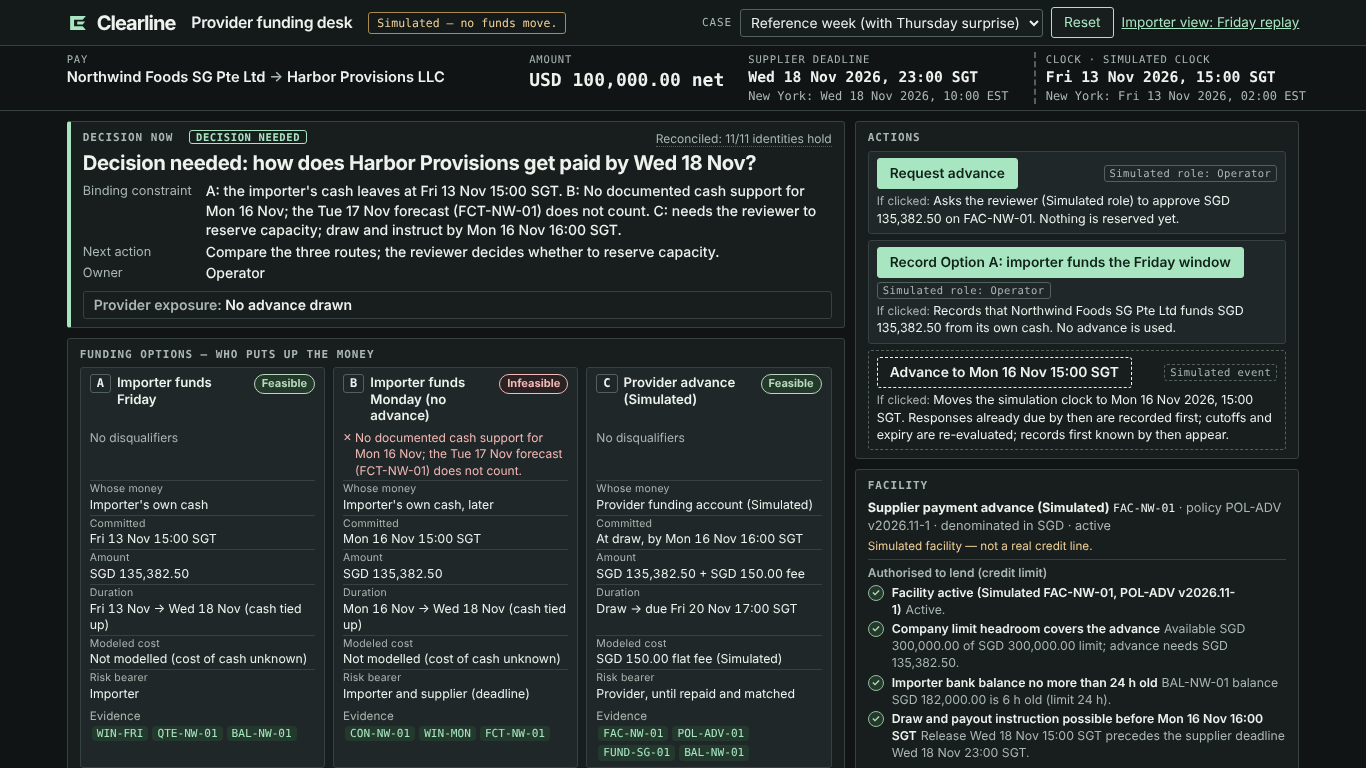
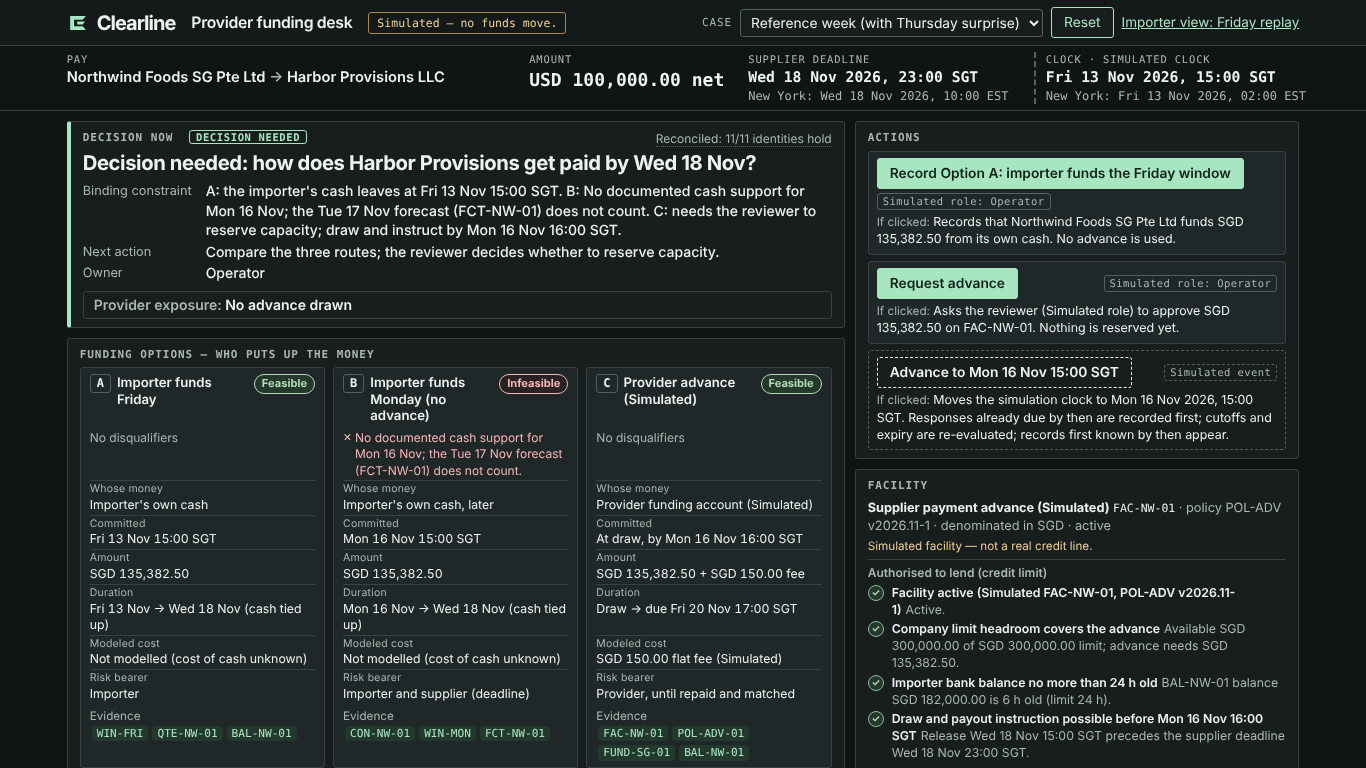
Test results and release log for build 5e2df82 (deployed as clearline-funding-desk@5c61373); challenger final-round regression tests (208 tests)
Claude-Session: https://claude.ai/code/session_015s4Kk7vKgcSQ7csnYmEH5j

Changed region(s): [[0.6149, 0.1875, 0.9224, 0.4375]]

diff --git a/funding-replay/tests/test_challenger.py b/funding-replay/tests/test_challenger.py
@@ -763,5 +763,44 @@ class Resisted2(unittest.TestCase):
             self.assertEqual(v["options"][2]["status"], "infeasible")
 
 
+class Resisted3OptionB(unittest.TestCase):
+    """Round 3 (5e2df82): the new Record Option B path."""
+
+    def test_R21_option_b_path_never_double_funds_double_instructs_or_closes_uncredited(self):
+        def b_ok(r):
+            r["evidence"].append(cash_support("200000.00"))
+        for base, mutate in (("reference", b_ok), ("reference", _b_only), ("failed_payout", b_ok), ("competing", b_ok)):
+            with Variant(base, "chl3_b_" + base + mutate.__name__, mutate) as cid:
+                for st in L.reachable(cid, cap=3000).values():
+                    types = [e["type"] for e in st["events"]]
+                    v = L.view(st)
+                    if v["options"][1]["status"] != "feasible" and v["options"][1]["status"] != "selected":
+                        self.assertIsNone(action(v, "select_b"))
+                    self.assertLessEqual(types.count("instruct"), 1)
+                    if "select_b" in types:
+                        self.assertNotIn("draw", types)
+                        self.assertNotIn("select_a", types)
+                        self.assertIsNone(v["exposure"])
+                        self.assertEqual(v["facility"]["reserved"] if v["facility"] else "SGD 0.00", "SGD 0.00")
+                        for e in st["events"]:
+                            if e["type"] == "instruct":
+                                self.assertTrue("2026-11-16T15:00" <= e["effective_at"][:16] < "2026-11-16T16:00", e)
+                    if v["decision"]["tone"] == "closed" or (action(v, "close") or {}).get("enabled"):
+                        self.assertEqual(v["facts"]["delivery"]["status"], "credited")
+
+    def test_R22_select_b_never_offered_on_late_small_usd_or_not_yet_known_support(self):
+        cases = {"small": cash_support("1000.00"), "late": cash_support("200000.00", effective="2026-11-17T12:00:00+08:00"),
+                 "usd": cash_support("200000.00", currency="USD"),
+                 "known_mon": cash_support("200000.00", known="2026-11-16T15:30:00+08:00")}
+        for name, rec in cases.items():
+            with Variant("reference", "chl3_bad_" + name, lambda r, rec=rec: r["evidence"].append(rec)) as cid:
+                for st in L.reachable(cid, cap=3000).values():
+                    sel = [e for e in st["events"] if e["type"] == "select_b"]
+                    if name == "known_mon":
+                        self.assertTrue(all(e["known_at"] >= "2026-11-16T15:30" for e in sel), name)
+                    else:
+                        self.assertEqual(sel, [], name)
+
+
 if __name__ == "__main__":
     unittest.main()

diff --git a/funding-replay/docs/TEST_RESULTS_PROVIDER.md b/funding-replay/docs/TEST_RESULTS_PROVIDER.md
@@ -1,0 +1,100 @@
+# Test results — provider funding desk release candidate
+
+**Synthetic prototype — no funds move.** Recorded 5 Nov 2026.
+
+- **Tested source:** `trysarathy/investigation-desk@5e2df82` (branch `provider-funding-lifecycle`, `funding-replay/`).
+  The commit that adds this file adds only tests and docs; the engine, UI and exporter are byte-identical to 5e2df82.
+- **Build:** `python3 tools/export_site.py <out>` from 5e2df82. `build.txt` and the page footer both read
+  "Build 5e2df82". There are 1,315 states, every one checked against the invariants at export:
+
+  | Case | States |
+  |---|---|
+  | reference | 400 |
+  | stale_balance | 458 |
+  | fixed_terms | 17 |
+  | no_cash | 53 |
+  | competing | 53 |
+  | failed_payout | 331 |
+  | all_infeasible | 3 |
+
+  The state cap is 600 per case. If a case exceeds it, the walk raises an error rather than truncating, and this
+  is regression-tested.
+- **Deployed:** `trysarathy/clearline-funding-desk` main @ `5c61373`. GitHub shows the Vercel status as "Deployment has
+  completed" (deployment `D6bmFaZbHmc1gRQR7iKfMNZN7176`). Previous production was `774f739`.
+
+## Suites (all run on 5e2df82 or its export)
+| Suite | Result |
+|---|---|
+| `python3 -m unittest discover -s tests`: engine, lifecycle, parity, server, replay challenge and the lifecycle challenger | **206 OK** at 5e2df82; **208 OK** with the challenger's 2 final regression tests, which are added in this commit |
+| `node tests/browser/lifecycle.cjs <export>`: provider desk journey and all cases, file:// | **596/596** |
+| Integration lead's independent mentor check: the export served over HTTP like a static host, normal entry point, **every step double-clicked**, state id and on-screen amounts compared with the engine, laptop 1366×768 and phone 390×844 | **218/218** |
+| `node tests/browser/recipient.cjs <export>/replay`: earlier replay, still shipped at `/replay/` | **24/24** |
+| `node tests/browser/offline.cjs <export>/replay` | **54/54 states** |
+| `node tests/browser/e2e.cjs`: replay dev server | **123/123** |
+
+## The mentor journey, verified in the browser (reference case)
+1. **Friday 15:00.** The headline is neutral: "Decision needed: how does Harbor Provisions get paid by Wed 18 Nov?"
+   - Three routes are shown side by side: A feasible, B infeasible (no documented Monday cash support; a forecast
+     doesn't count), C feasible.
+   - The actions are listed in option order (Option A first).
+   - Exposure reads "No advance drawn".
+2. **Reserve capacity.** Reserved SGD 135,382.50; company available SGD 164,617.50; principal outstanding **SGD 0.00**.
+   No cash is drawn.
+3. **Record simulated draw.** Principal SGD 135,382.50 plus the fee of SGD 150.00. Exposure is Outstanding.
+4. **Instruct payout, then Provider accepts payout.** The screen says credit is not yet evidenced; acceptance is not
+   credit.
+5. **Record beneficiary credit.** Wed 18 Nov 16:20. "Supplier credited; importer repayment outstanding".
+   - Exposure is Outstanding SGD 135,532.50 (principal 135,382.50, fees 150.00).
+   - The provider (FAC-NW-01) is owed by Northwind, due Fri 20 Nov 17:00.
+   - The delivery half is complete and the exposure half is open.
+6. **Advance the clock to Wed 23:00, then Thu 10:00.** Every balance is unchanged.
+7. **Record customer receipt.** Listed as "not repayment"; exposure unchanged.
+8. **Importer pays SGD 100,000.00.** Shown as received but not matched; exposure is unchanged until it is matched.
+9. **Match repayment.** Fees SGD 150.00 and principal SGD 99,850.00 are applied; **SGD 35,532.50** principal and
+   SGD 0.00 fees remain.
+10. **Balance payment, then Match.** Exposure "Ended"; capacity back to SGD 300,000.00. The owner line reads
+    "Nothing owed…", never "is owed".
+11. **Close.** Case closed.
+12. **Reset, then Request advance, then Decline.** "Advance declined — nothing reserved"; no draw, "No advance drawn".
+
+## Independent challenger
+Three rounds. The challenger wrote its own invariants from the contract and read only the view JSON.
+
+**Round 1: 16 defects, all found in constructed fixture variants.** None appeared in the shipped cases. All fixed
+by 001e29b without weakening a test:
+- **D1a–c:** Option B was treated as feasible on support that was too small, too late, or in USD.
+- **D2a–c:** advice named an action that doesn't exist.
+- **D3a–b:** facts were used before their known_at.
+- **D4:** a credit dated before the instruction was accepted.
+- **D5, D5b:** float amounts were accepted.
+- **M1–M5:** wording problems, a USD/SGD comparison, and age rounding.
+
+**Round 2 (on 001e29b): 7 new tests, all fixed in 5e2df82.**
+- **N1a, N1b:** a feasible Option A was hidden behind "wait".
+- **N2:** the engine advised "Record Option B" with no action to do it. A `select_b` action was added.
+- **N3:** the wording "only feasible route" appeared when two routes were feasible.
+- **N4:** a suspension was applied before it was known.
+- **N5:** funding figures were shown before their record was known.
+- **N6:** "stays outstanding" appeared after repayment.
+
+**Round 3 (on 5e2df82): no findings.**
+- Option B never funds alongside C, never sends two instructions, never closes without credit, and is never offered
+  on bad support.
+- Attacks resisted:
+  - a wrong-currency USD payment can be returned at once, can't close the case, and never reduces what is owed;
+  - five repeated clicks at each step record each step once;
+  - a settled or undrawn case never says "is owed";
+  - clock advances never change money;
+  - random fuzzing that includes disabled actions stays inside the reachable set.
+
+## Not tested, and known limits
+- **Live site.** This session's network policy blocks `*.vercel.app`, so the public URL was never opened from here.
+  The Vercel "completed" status shows the deployment built. It does not show which build the alias serves.
+- **Policy question, not modelled.** Whether a suspension "for new advances" should also block drawing a reservation
+  made before the suspension was known. Today such a reservation can still be drawn.
+- **Withdrawn support.** If cash support were withdrawn after Option B was chosen, nothing re-checks it, and no
+  fixture can express a withdrawal.
+- **State budget.** Fixture variants with valid Option B support would exceed the 600-state cap (568 and 670 states).
+  The walk fails loudly, so this only matters if such a fixture is shipped.
+- **Unmodelled.** Release of goods, FX accounting, real provider terms and real delivery times are not modelled.
+  Roles are simulated, not authentication.

diff --git a/funding-replay/docs/RELEASE.md b/funding-replay/docs/RELEASE.md
@@ -49,3 +49,10 @@ git push origin main
 5. Thursday: record the customer receipt (not repayment), then repayment, **Match repayment**, close.
 6. **Reset** returns to the Friday state. `/replay/` still opens the earlier replay.
 If any step fails, roll back (above) and record why.
+
+## Release log
+| Date | Source (investigation-desk) | Deploy commit (clearline-funding-desk main) | Vercel status on GitHub | Live check |
+|---|---|---|---|---|
+| 5 Nov 2026 | `5e2df82` | `5c61373` (previous `774f739`) | success, "Deployment has completed" (D6bmFaZbHmc1gRQR7iKfMNZN7176) | Not done from the build session (vercel.app blocked there); owner to check that `/build.txt` reads "Build 5e2df82" |
+
+Confirmed on 5 Nov from GitHub commit statuses: the Vercel project `sarathyv2/clearline-funding-desk` deploys this repo's `main`.
